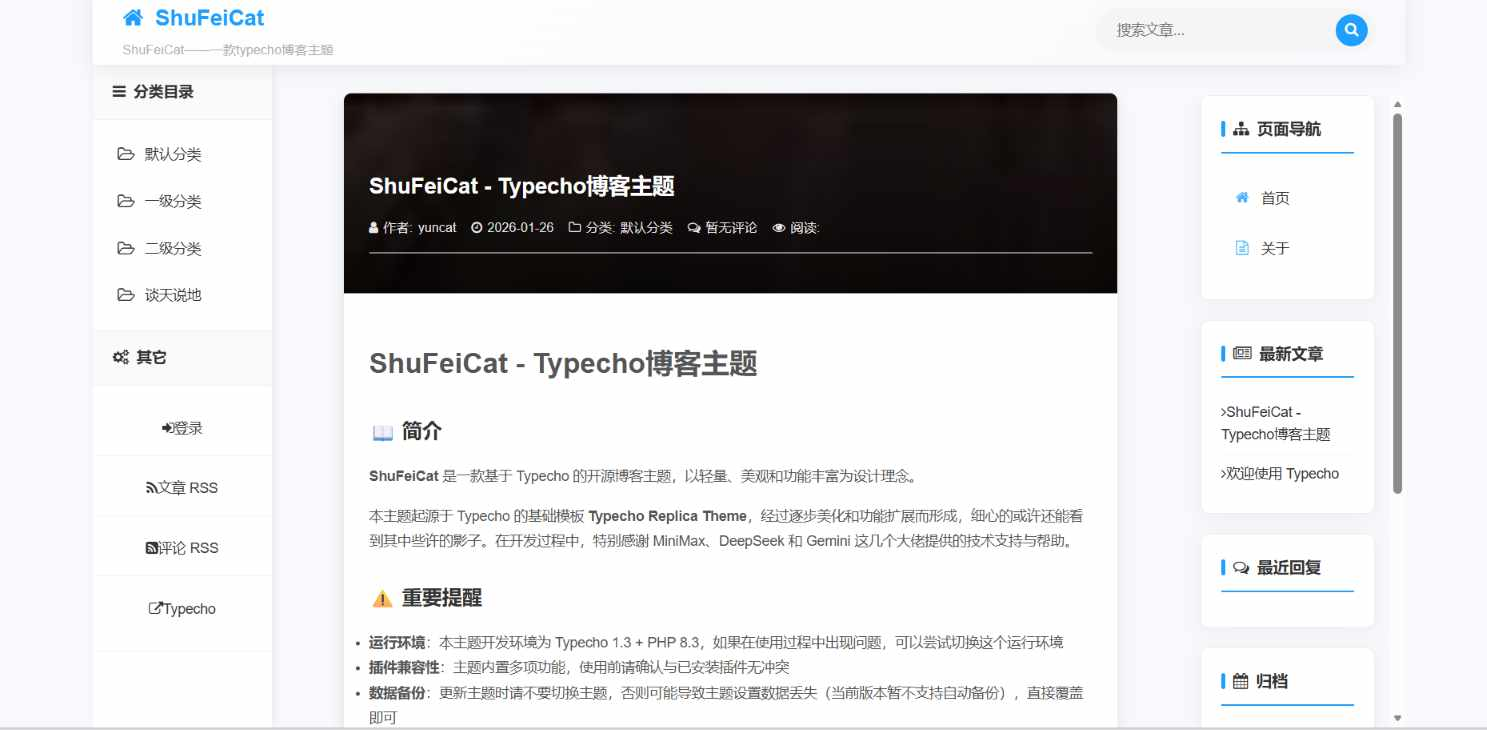
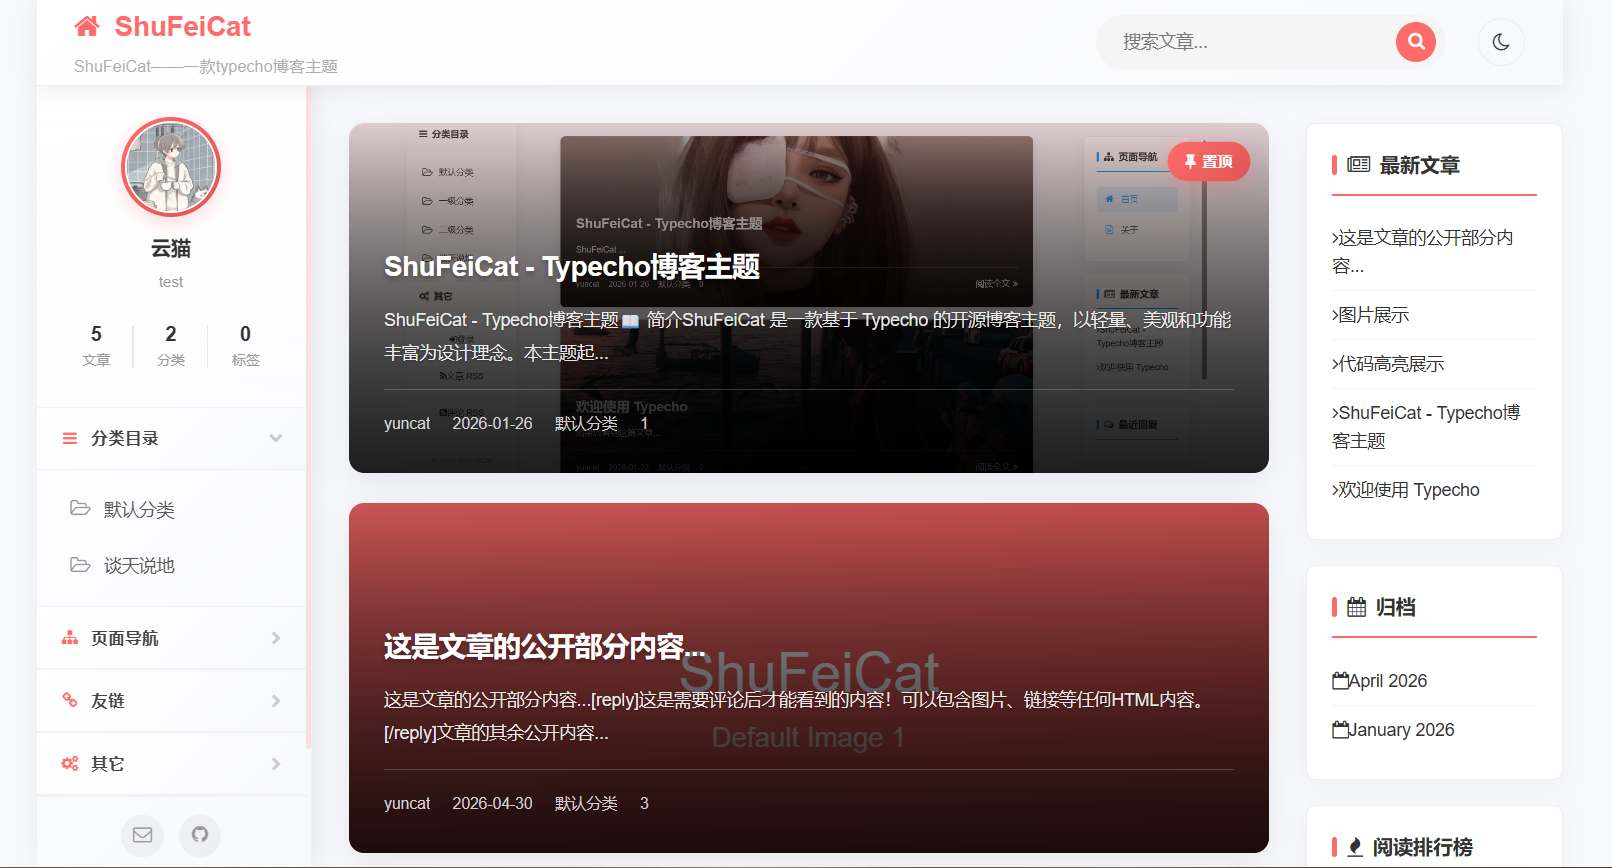
版本推送

diff --git a/readme.md b/readme.md
@@ -35,18 +35,19 @@
 ### 桌面端界面
 
 **电脑端首页预览**
-![电脑端首页](https://img-cf.czzu.cn/1769433152398_x7hshtjr.png)
+![电脑端首页](https://img-cf.czzu.cn/1780233271113_o9m334qc.png)
 
 **电脑端文章页面**
-![电脑端文章](https://img-cf.czzu.cn/1769433146179_z9wqgki3.png)
+![电脑端文章](https://img-cf.czzu.cn/1780233298432_ims8uyf1.png)
 
 ### 移动端界面
 
 **移动端首页预览**
-![移动端首页](https://img-cf.czzu.cn/1769433132328_t1fcg8yv.png)
+![移动端首页](https://img-cf.czzu.cn/1780233163301_ca0zv8n1.png)
+![移动端首页2](https://img-cf.czzu.cn/1780233205253_dqftuekp.png)
 
 **移动端文章页面**
-![移动端文章](https://img-cf.czzu.cn/1769433128252_e6eyrxvp.png)
+![移动端文章](https://img-cf.czzu.cn/1780233244375_q6cwmbsh.png)
 
 ### 特色功能
 
@@ -54,7 +55,7 @@
 ![后台设置](https://img-cf.czzu.cn/1769433155659_uy5n4me5.png)
 
 **代码高亮效果展示**
-![代码高亮](https://img-cf.czzu.cn/1769433304509_merwm9p5.png)
+![代码高亮](https://img-cf.czzu.cn/1780233389022_xjj7bc82.png)
 
 > **提示**：更多效果请下载主题后实际体验
 
@@ -154,6 +155,7 @@ shufeicat-typecho/
 - 主题默认配色修改为#FF6B6B
 - 支持修改主题配色以及背景图片
 - 支持修改盒子透明度
-- 优化左侧边栏，使其更加整洁
-- 美化列表盒子
+- 美化左侧边栏，支持展示站长头像签名等内容
+- 美化列表盒子，两种样式自由切换
 - 新增夜间模式
+- 修复一些小bug
